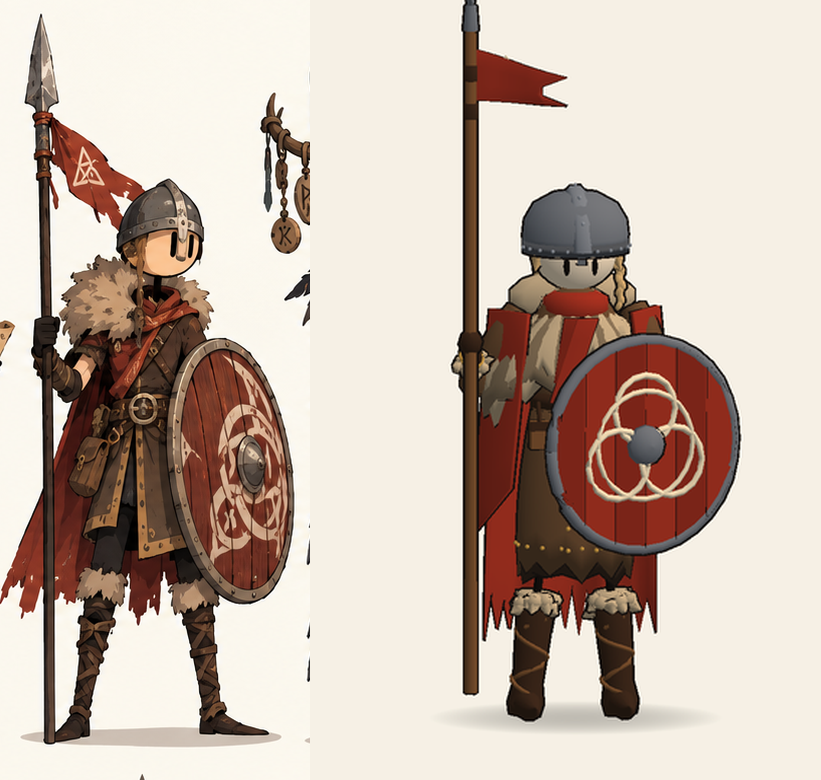
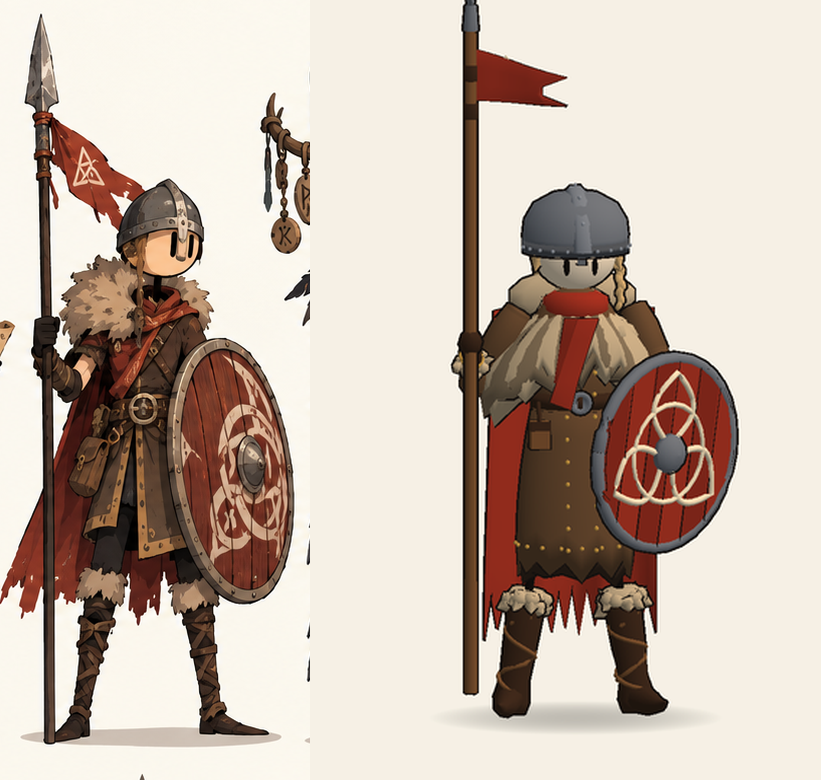
Odin's Coin characters: Spear Guard polish pass 1
A proper triquetra on the shield (three pointed lobes woven with a
circle) instead of three rings; the shield a little smaller, held at the
left hip and turned so it's seen at an angle, leaving the studded
jerkin, ring-buckle belt and pouch in view; a wide stance; the cape
hangs only behind him (BigCape's shoulder drapes are now optional).

Claude-Session: https://claude.ai/code/session_01SCdejJ1UF8RUxAkkFhZXGU

Changed region(s): [[0.5786, 0.3692, 0.9135, 0.9231]]

diff --git a/OdinsCoin/Assets/Scripts/Characters/HeroModel.cs b/OdinsCoin/Assets/Scripts/Characters/HeroModel.cs
@@ -286,7 +286,7 @@ namespace OdinsCoin
                     {
                         // A big shield of red planks with an iron rim and boss and a pale triple-knot painted on it,
                         // held in front of the body, face forward (+Z).
-                        float rad = 0.33f * s;
+                        float rad = 0.3f * s;
                         var at = new Vector3(0f, 0.02f * s, 0.06f * s);
                         for (int q = 0; q < 6; q++)
                         {
@@ -303,15 +303,23 @@ namespace OdinsCoin
                         for (int i = 0; i < kRim.Length; i++) { float a = i / 32f * Mathf.PI * 2f; kRim[i] = at + new Vector3(Mathf.Cos(a), Mathf.Sin(a), 0f) * rad; kRr[i] = 0.02f * s; }
                         d.Add(Joints.OffHand, d.pal.metal, MeshData.Tube(kRim, kRr, 6));
                         d.Add(Joints.OffHand, d.pal.metal, MeshData.Dome(Vector3.zero, new Vector3(0.065f, 0.055f, 0.065f) * s, 12, 4).Transformed(at + new Vector3(0f, 0f, 0.012f * s), Quaternion.Euler(90f, 0f, 0f), Vector3.one));
-                        // The triple knot: three overlapping loops around the boss, and a circle through them.
+                        // The triquetra: three pointed lobes (vesicas) meeting at the boss, woven with a circle.
                         for (int k = 0; k < 3; k++)
                         {
                             float a0 = k * Mathf.PI * 2f / 3f + Mathf.PI / 2f;
-                            var loopCentre = at + new Vector3(Mathf.Cos(a0), Mathf.Sin(a0), 0f) * rad * 0.34f + new Vector3(0f, 0f, 0.017f * s);
-                            var loop = new Vector3[17];
-                            var lr = new float[17];
-                            for (int i = 0; i < loop.Length; i++) { float a = i / 16f * Mathf.PI * 2f; loop[i] = loopCentre + new Vector3(Mathf.Cos(a), Mathf.Sin(a), 0f) * rad * 0.33f; lr[i] = 0.011f * s; }
-                            d.Add(Joints.OffHand, d.pal.emblem, MeshData.Tube(loop, lr, 4), false);
+                            var dir = new Vector3(Mathf.Cos(a0), Mathf.Sin(a0), 0f);
+                            var perp = new Vector3(-dir.y, dir.x, 0f);
+                            var lobe = new Vector3[25];
+                            var lr = new float[25];
+                            for (int i = 0; i < lobe.Length; i++)
+                            {
+                                // Out along one arc and back along the other: a pointed lens from the centre to the tip.
+                                float t = i / (float)(lobe.Length - 1) * 2f;
+                                float u = t <= 1f ? t : 2f - t, side = t <= 1f ? 1f : -1f;
+                                lobe[i] = at + new Vector3(0f, 0f, 0.017f * s) + dir * (0.08f + u * 0.78f) * rad + perp * side * Mathf.Sin(u * Mathf.PI) * 0.3f * rad;
+                                lr[i] = 0.011f * s;
+                            }
+                            d.Add(Joints.OffHand, d.pal.emblem, MeshData.Tube(lobe, lr, 4), false);
                         }
                         var circle = new Vector3[25];
                         var cr = new float[25];

diff --git a/tools/preview/HeroPreview.cs b/tools/preview/HeroPreview.cs
@@ -102,15 +102,15 @@ public static class HeroPreview
         Vector3 grElbow = gr + new Vector3(0.12f, -0.2f, -0.02f).normalized * gFit.upperArm;
         Vector3 grFist = new Vector3(gFit.shoulderX + 0.14f, gFit.chest - 0.02f, 0.06f);
         Vector3 glElbow = gl + new Vector3(-0.08f, -0.2f, 0.1f).normalized * gFit.upperArm;
-        Vector3 glFist = new Vector3(-0.2f, gFit.waist - 0.06f, 0.17f);
+        Vector3 glFist = new Vector3(-0.24f, gFit.waist - 0.05f, 0.16f);
         guarding.worldRot[Joints.RightArm] = Quaternion.FromToRotation(Vector3.down, grElbow - gr);
         guarding.worldRot[Joints.RightForearm] = Quaternion.FromToRotation(Vector3.down, grFist - grElbow);
         guarding.worldRot[Joints.Weapon] = Quaternion.LookRotation(Vector3.up, new Vector3(-1f, 0f, 0.35f));
         guarding.worldRot[Joints.LeftArm] = Quaternion.FromToRotation(Vector3.down, glElbow - gl);
         guarding.worldRot[Joints.LeftForearm] = Quaternion.FromToRotation(Vector3.down, glFist - glElbow);
-        guarding.worldRot[Joints.OffHand] = Quaternion.Euler(0f, -22f, 0f);
-        guarding.rot[Joints.LeftLeg] = Quaternion.Euler(0f, 0f, -5f);
-        guarding.rot[Joints.RightLeg] = Quaternion.Euler(0f, 0f, 6f);
+        guarding.worldRot[Joints.OffHand] = Quaternion.Euler(4f, -38f, 6f);
+        guarding.rot[Joints.LeftLeg] = Quaternion.Euler(0f, -16f, -9f);
+        guarding.rot[Joints.RightLeg] = Quaternion.Euler(0f, 18f, 9f);
         shots.Add(new Shot { label = "The Spear Guard", model = guardModel, pose = guarding, yaw = 188f });
         // The Old Seer: the rune staff upright in her left hand, the right hand at her charms.
         var seer = CharacterSpec.Default(OutfitId.Seer);

diff --git a/OdinsCoin/Assets/Scripts/Characters/Garments.cs b/OdinsCoin/Assets/Scripts/Characters/Garments.cs
@@ -318,14 +318,17 @@ namespace OdinsCoin
         /// <summary>
         /// A big red cape from the shoulders to the ankles, ragged at the hem, wrapping forward over the shoulders.
         /// </summary>
-        public static void BigCape(Dresser d, float length, float flare)
+        public static void BigCape(Dresser d, float length, float flare) { BigCape(d, length, flare, true); }
+
+        /// <summary>The big cape; <paramref name="drapes"/> adds the parts falling forward over the shoulders.</summary>
+        public static void BigCape(Dresser d, float length, float flare, bool drapes)
         {
             var f = d.fit;
             float s = d.S;
             var top = new Vector3(0f, f.shoulderY + 0.02f * s, -f.chestR * f.depth * 0.3f);
             d.Add(Joints.Body, d.pal.accent, CharacterKit.Cape(top, f.shoulderX * 2.6f, f.shoulderX * 2f * flare, length * s, f.chestR * 1.3f, 0.17f * s, d.seed + 41, 0.02f * s));
             // Front drapes falling over each shoulder, open at the chest.
-            foreach (float x in new[] { -1f, 1f })
+            if (drapes) foreach (float x in new[] { -1f, 1f })
             {
                 const int rows = 6, cols = 3;
                 var grid = new Vector3[rows, cols];

diff --git a/OdinsCoin/Assets/Scripts/Characters/Outfits.cs b/OdinsCoin/Assets/Scripts/Characters/Outfits.cs
@@ -123,7 +123,7 @@ namespace OdinsCoin
                     Garments.LongSleeves(d);
                     Garments.StuddedTrim(d);
                     Garments.RingBuckleBelt(d);
-                    Garments.BigCape(d, 0.9f, 1.4f);
+                    Garments.BigCape(d, 0.9f, 1.4f, false);
                     Garments.ShoulderPelt(d, 1.2f);
                     Garments.Scarf(d);
                     Garments.NasalHelmet(d);
